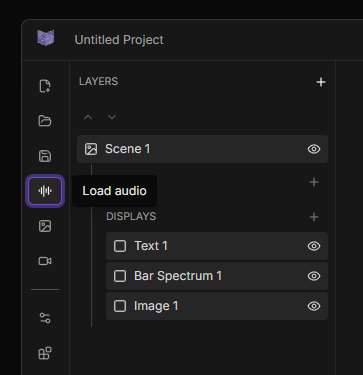
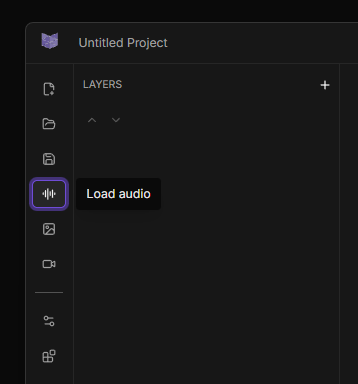
Restructure docs navigation and replace image placeholders with screenshots

diff --git a/styles.css b/styles.css
@@ -16,62 +16,6 @@ html[data-theme='light'] {
   --home-shimmer-highlight: #c4b5fd;
 }
 
-@media (min-width: 64rem) {
-  header > div {
-    position: relative;
-  }
-
-  header a[href='/docs'],
-  header a[href='/downloads'],
-  header a[href='/changelog'] {
-    position: absolute;
-    top: 0;
-    display: flex;
-    height: calc(100% + 1px);
-    align-items: center;
-    padding: 0;
-    border-bottom: 2px solid transparent;
-    border-radius: 0;
-    color: var(--muted-foreground);
-    white-space: nowrap;
-  }
-
-  header a[href='/docs']:hover,
-  header a[href='/downloads']:hover,
-  header a[href='/changelog']:hover {
-    background: transparent;
-    color: var(--foreground);
-  }
-
-  header a[href='/docs'][aria-current='page'],
-  header a[href='/downloads'][aria-current='page'],
-  header a[href='/changelog'][aria-current='page'] {
-    border-bottom-color: var(--primary);
-    color: var(--foreground);
-  }
-
-  header a[href='/docs'] {
-    left: calc(50% - 11.125rem);
-  }
-
-  header a[href='/downloads'] {
-    left: 50%;
-    transform: translateX(-50%);
-  }
-
-  header a[href='/changelog'] {
-    right: calc(50% - 10.125rem);
-  }
-}
-
-@media (max-width: 63.999rem) {
-  header a[href='/docs'],
-  header a[href='/downloads'],
-  header a[href='/changelog'] {
-    display: none;
-  }
-}
-
 .home-title-shimmer {
   color: var(--primary);
   background-image: linear-gradient(

diff --git a/content/pages/home.tsx b/content/pages/home.tsx
@@ -22,7 +22,7 @@ export default function HomePage() {
         </p>
         <div className="flex gap-4">
           <a
-            href="/downloads"
+            href="/download"
             className="inline-flex h-12 items-center justify-center gap-2.5 rounded-md border border-border bg-background px-6 text-base font-medium text-foreground transition-colors hover:bg-accent"
           >
             <svg

diff --git a/content/pages/download.tsx b/content/pages/download.tsx
@@ -1,0 +1,14 @@
+export const frontmatter = {
+  title: 'Download',
+  description:
+    'Download the Astrofox desktop app for Windows, macOS, and Linux.',
+};
+
+export default function DownloadsPage() {
+  return (
+    <article className="docs-markdown py-8 w-200 mx-auto my-12">
+      <h1 className="text-4xl font-semibold">Download</h1>
+
+    </article>
+  );
+}
